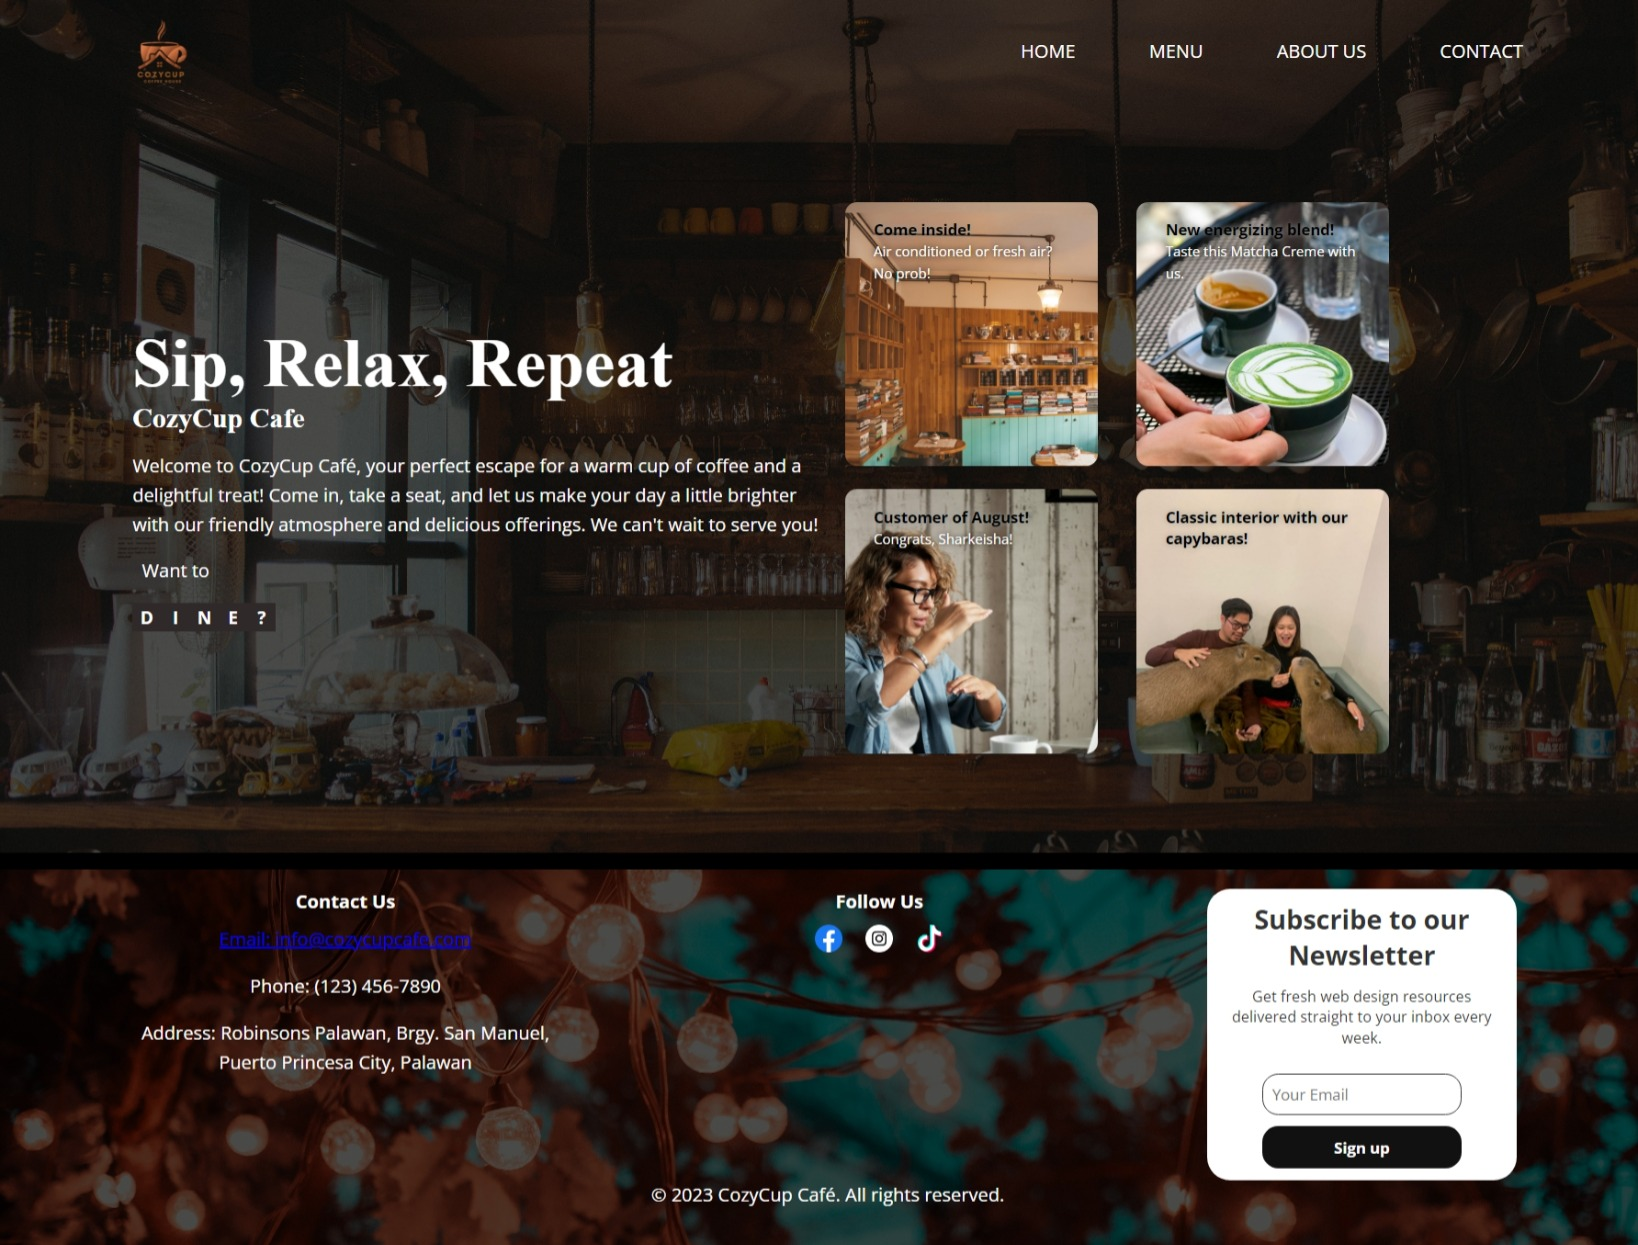
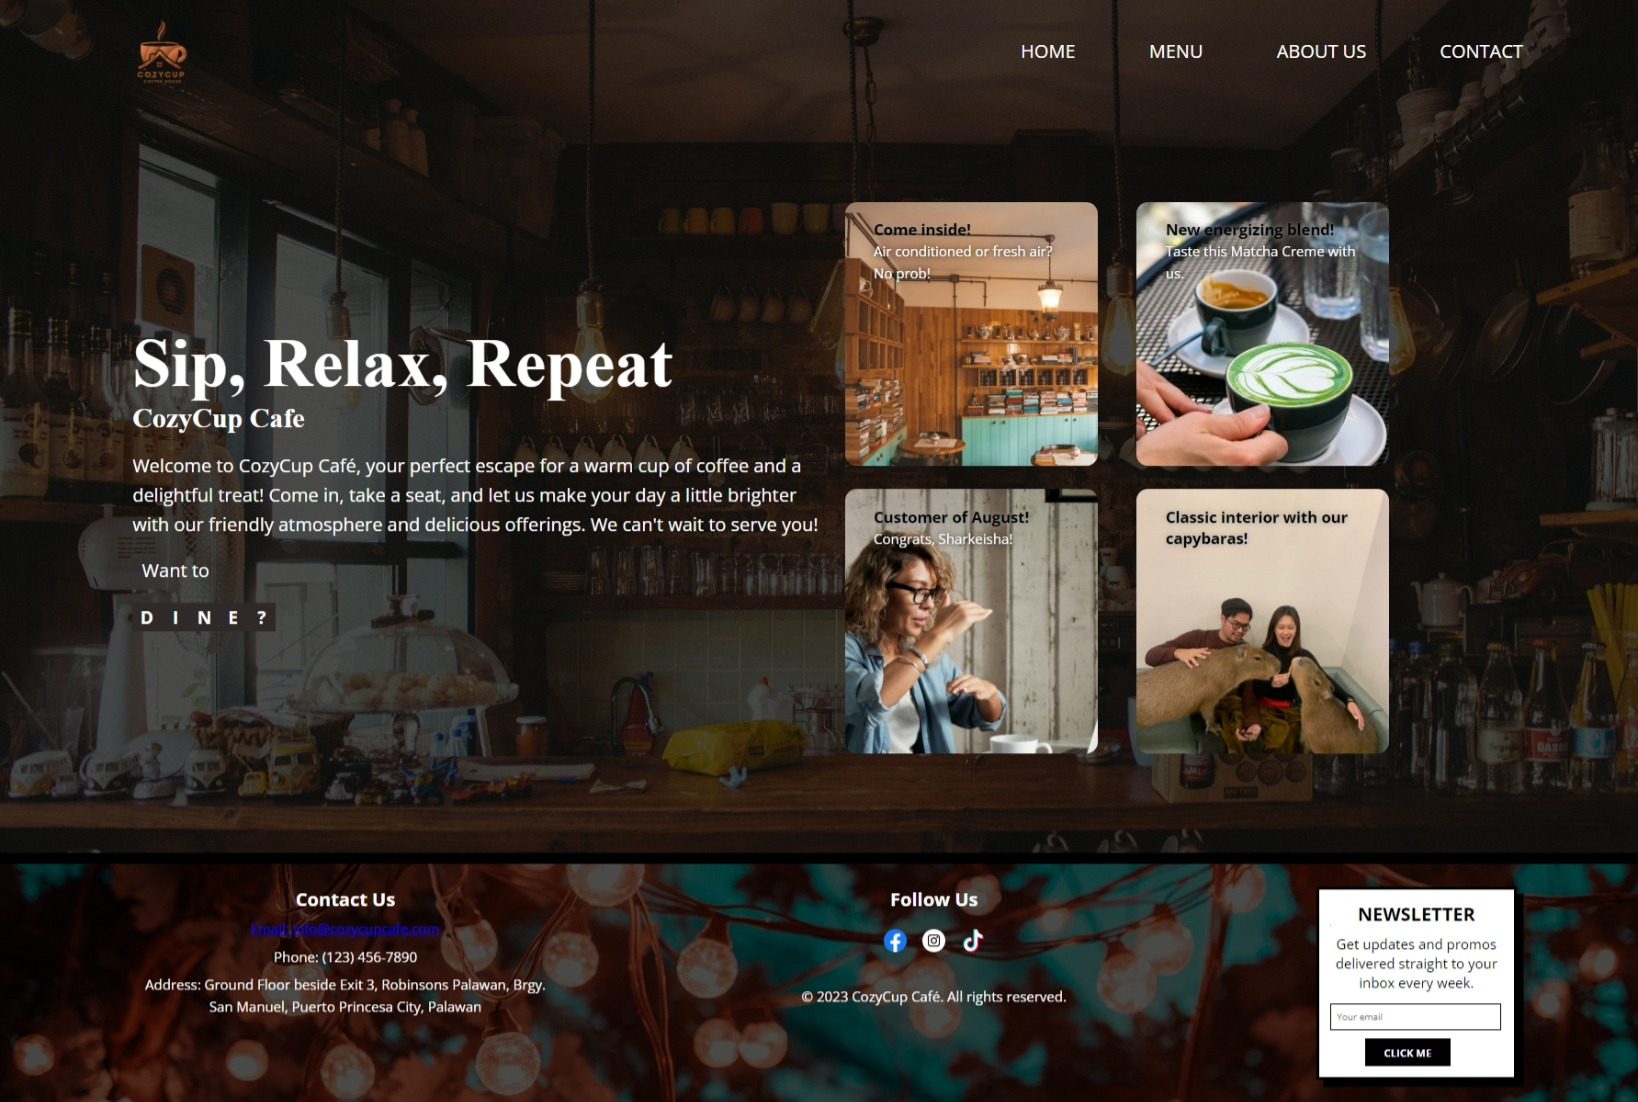
revised and reduce footer size

diff --git a/css/styles.css b/css/styles.css
@@ -173,17 +173,19 @@ h5 {
 }
 
 .main.footer {
-    padding: 16.6px;
+    padding: 10px 0;
     background-image: linear-gradient(rgba(0, 0, 0, 0.7), rgba(0, 0, 0, 0.7)), url(../img/footerbg1.jpg);
     text-align: center;
     color: #fff;
     background-size: cover;
     background-position: center;
     background-repeat: no-repeat;
-    border-top: 15px solid black; 
+    border-top: 10px solid black; 
 }
 
-
+.main.footer p{
+    font-size: 12px;
+}
 
 .footer-content {
     display: flex;
@@ -191,94 +193,176 @@ h5 {
     flex-wrap: wrap;
     max-width: 1200px;
     margin: 0 auto;
+    padding: 10px; 
 }
 
 .footer-section {
     width: 30%;
-    margin-bottom: 20px;
+    margin-bottom: 0px;
 }
 
 .footer-section h4 {
-    margin-bottom: 10px;
+    margin-bottom: 5px;
+    font-size: 16;
 }
 
+.footer-section p{
+    font-size: 10px;
+    margin: 5px 0;
+}
+
+.footer-section
+
 .social-icons {
-    display: flex;
+    display: inline-block;
     justify-content: center;
+    margin-top: 10px;
 }
 
 .social-icons a {
-    margin: 0 10px;
+    margin: 0 5px; 
 }
 
 .social-icons img {
-    width: 24px;
-    height: 24px;
+    width: 20px; 
+    height: 20px;
+}
+social-icons p {
+    font-size: 8;
 }
 
-
-.signup {
-    width: 240px;
-    height: 254px;
-    padding: 0 15px;
-    text-align: center;
+.SUcard {
+    width: 150px; /* Halved from 300px */
+    padding: 10px; /* Halved from 20px */
+    background: #fff;
+    border: 3px solid #000; /* Halved from 6px */
+    box-shadow: 6px 6px 0 #000; /* Halved from 12px */
+    transition: transform 0.3s, box-shadow 0.3s;
+  }
+  
+  .SUcard:hover {
+    transform: translate(-2.5px, -2.5px); /* Halved the translation */
+    box-shadow: 8.5px 8.5px 0 #000; /* Halved the shadow */
+  }
+  
+  .SUcard__title {
+    font-size: 16px; 
+    font-weight: 900;
+    color: #000;
+    text-transform: uppercase;
+    margin-bottom: 7.5px; 
+    display: block;
+    position: relative;
+    overflow: hidden;
+  }
+  
+  .SUcard__title::after {
+    content: "";
+    position: absolute;
+    bottom: 0;
+    left: 0;
+    width: 90%;
+    height: 1.5px; /* Halved the underline height */
+    background-color: #000;
+    transform: translateX(-100%);
+    transition: transform 0.3s;
+  }
+  
+  .SUcard:hover .SUcard__title::after {
+    transform: translateX(0);
+  }
+  
+  .SUcard__content {
+    font-size: 8px; /* Halved from 16px */
+    line-height: 1.4;
+    color: #000;
+    margin-bottom: 10px; /* Halved from 20px */
+  }
+  
+  .SUcard__form {
+    display: flex;
+    flex-direction: column;
+    gap: 7.5px; /* Halved from 15px */
+  }
+  
+  .SUcard__form input {
+    padding: 5px; /* Halved from 10px */
+    border: 1.5px solid #000; /* Halved the border */
+    font-size: 8px; /* Halved from 16px */
+    font-family: inherit;
+    transition: transform 0.3s;
+    width: calc(100% - 13px); /* Adjusted width for padding and border */
+  }
+  
+  .SUcard__form input:focus {
+    outline: none;
+    transform: scale(1.05);
+    background-color: #000;
+    color: #ffffff;
+  }
+  
+  .SUcard__button {
+    border: 1.5px solid #000; /* Halved the border */
+    background: #000;
+    color: #fff;
+    padding: 5px; /* Halved the padding */
+    font-size: 9px; /* Halved from 18px */
+    left: 20%;
+    font-weight: bold;
+    text-transform: uppercase;
+    cursor: pointer;
+    position: relative;
+    overflow: hidden;
+    transition: transform 0.3s;
+    width: 50%;
+  }
+  
+  .SUcard__button::before {
+    content: "Sure?";
+    position: absolute;
+    top: 0;
+    left: 0;
+    width: 100%;
+    height: 102.5%; /* Adjusted height */
+    background-color: #967259;
+    color: #000;
     display: flex;
     align-items: center;
     justify-content: center;
-    flex-direction: column;
-    gap: 12px;
-    background: white;
-
-    border-radius: 20px;
+    transform: translateY(100%);
+    transition: transform 0.3s;
   }
   
-  .signup > * {
-    margin: 0;
+  .SUcard__button:hover::before {
+    transform: translateY(0);
   }
   
-  .signup__title {
-    font-size: 23px;
-    font-weight: 900;
-    color: #333;
+  .SUcard__button:active {
+    transform: scale(0.95);
   }
   
-  .signup__content {
-    font-size: 13px;
-    line-height: 18px;
-    color: #333;
+  @keyframes glitch {
+    0% {
+      transform: translate(2px, 2px);
+    }
+    25% {
+      transform: translate(-2px, -2px);
+    }
+    50% {
+      transform: translate(-2px, 2px);
+    }
+    75% {
+      transform: translate(2px, -2px);
+    }
+    100% {
+      transform: translate(2px, 2px);
+    }
   }
   
-  .signup__form {
-    display: flex;
-    flex-direction: column;
-    gap: 10px;
+  .glitch {
+    animation: glitch 0.3s infinite;
   }
   
-  .signup__form input {
-    margin-top: 10px;
-    outline: 0;
-    background: rgb(255, 255, 255);
-    box-shadow: transparent 0px 0px 0px 1px inset;
-    padding: 0.6em;
-    border-radius: 14px;
-    border: 1px solid #333;
-    color: black;
-  }
-  
-  .signup__form button {
-    border: 0;
-    background: #111;
-    color: #fff;
-    padding: 0.68em;
-    border-radius: 14px;
-    font-weight: bold;
-  }
-  
-  .signupbutton:hover {
-    opacity: 0.8;
-  } 
-  
-
 .menu {
     background: url(../img/menu-bg.jpg) no-repeat center center/cover;
     padding: 100px 50px;

diff --git a/index.html b/index.html
@@ -60,7 +60,7 @@
                 <h4>Contact Us</h4>
                 <p><a href="mailto:cozycupcafe@gmail.com">Email: info@cozycupcafe.com</a></p>
                 <p>Phone: (123) 456-7890</p>
-                <p>Address: Robinsons Palawan, Brgy. San Manuel, Puerto Princesa City, Palawan</p>
+                <p>Address: Ground Floor beside Exit 3, Robinsons Palawan, Brgy. San Manuel, Puerto Princesa City, Palawan</p>
             </div>
             
             <div class="footer-section social-media">
@@ -69,19 +69,21 @@
                     <a href="https://web.facebook.com/MayorIndaySaraDuterteOfficial"><img src="img/Facebook.png" alt="Facebook"></a>
                     <a href="https://www.instagram.com/indaysaraduterte/?hl=en"><img src="img/Instagram.png" alt="Instagram"></a>
                     <a href="https://www.tiktok.com/discover/sara-duterte-official?lang=en"><img src="img/Tik Tok.png" alt="Tiktok"></a>
+                    <p><br>&copy; 2023 CozyCup Café. All rights reserved.</p>
                 </div>
             </div>
             
-            <div class="signup">
-                <span class="signup__title">Subscribe to our Newsletter</span>
-                <p class="signup__content">Get fresh updates and promos delivered straight to your inbox every week.
-                </p>
-                <div class="signup__form">
-                    <input placeholder="Your Email" type="text">
-                    <button class="signubutton"> Sign up</button>
-                </div>
+            <div class="SUcard">
+              <span class="SUcard__title">Newsletter</span>
+              <p class="SUcard__content">
+                Get updates and promos delivered straight to your inbox every week.
+              </p>
+              <form class="SUcard__form">
+                <input required="" type="email" placeholder="Your email" />
+                <button class="SUcard__button">Click me</button>
+              </form>
             </div>
+            
         </div>
-        <p>&copy; 2023 CozyCup Café. All rights reserved.</p>
     </div>    
 </html>
